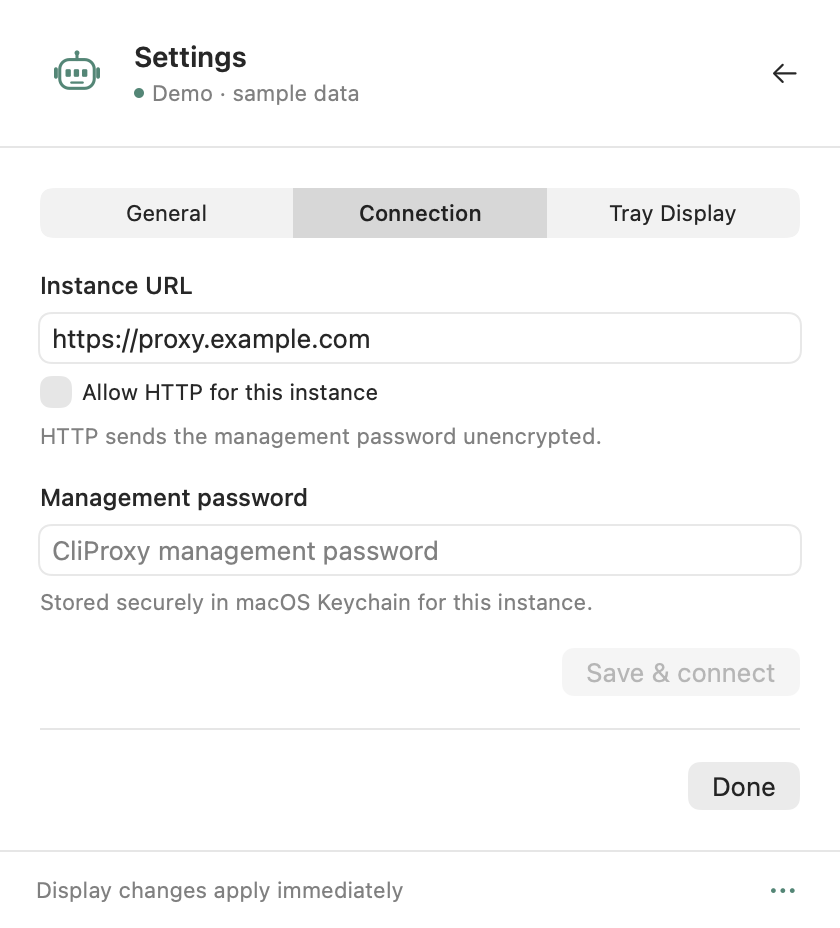
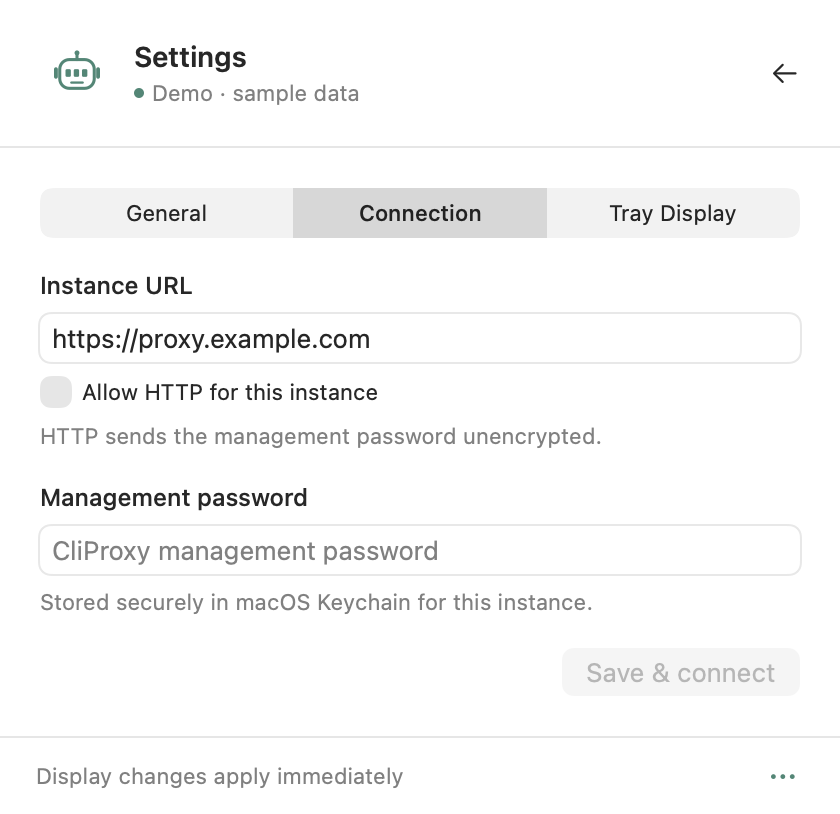
Remove Settings Done button and refresh README screenshot gallery

diff --git a/Sources/CliProxyQuota/Views.swift b/Sources/CliProxyQuota/Views.swift
@@ -239,8 +239,6 @@ struct SettingsView: View {
             case "General": generalSettings
             default: displaySettings
             }
-            Divider()
-            HStack { Spacer(); Button("Done") { key = ""; store.showSettings = false }.buttonStyle(.borderedProminent) }
         }
         .onAppear {
             endpoint = store.endpoint

diff --git a/README.md b/README.md
@@ -30,6 +30,8 @@ A small, native macOS app for [CLIProxyAPI](https://github.com/router-for-me/CLI
 - **Provider icons**: artwork for 17 provider identities in both quota views and the source menu, including light/dark variants where supplied. Unknown custom providers retain a letter fallback. Bundled locally for offline use.
 - **Three-dot menu**: Refresh, Open management UI, API version, and Quit are grouped in the bottom-right menu.
 
+## Screenshots
+
 <table>
 <tr>
 <td align="center"><strong>Account detail</strong></td>
@@ -73,9 +75,9 @@ Local builds are **ad-hoc signed**, not Developer ID signed or notarized. Downlo
 1. Click the Quota Bot icon in the menu bar, then the settings icon.
 2. Enter your CLIProxyAPI instance's base URL, such as `http://localhost:8317` or `https://proxy.example.com`.
 3. Enter the **management password/key**, not a proxy inference API key or a provider OAuth token.
-4. Choose a refresh interval and click **Save & connect**.
+4. Click **Save & connect** in **Connection**. Choose a refresh interval under **General**.
 5. Under **Tray Display**, choose **Remaining / Used**, **5-hour / Weekly / Both**, and one or more **Source** checkboxes. Changes apply immediately.
-6. Click **Done** to return to **All accounts** or **Per account**. Both use the selected percentage mode.
+6. Use the back arrow to return to **All accounts** or **Per account**. Both use the selected percentage mode.
 
 Settings has three tabs: **General**, **Connection**, and **Tray Display**. Connection changes use **Save & connect**; a blank management-password field keeps the saved Keychain password for that same instance. Refresh interval, launch-at-login, and **Light / Dark / System (Default)** appearance are under General. Appearance changes apply immediately and are remembered.
 
@@ -83,9 +85,20 @@ The management API must be enabled. Connections from another machine require rem
 
 HTTPS is the default for remote instances. To use a trusted HTTP instance, explicitly enable **Allow HTTP for this instance**. HTTP carries the management password without encryption; the opt-in applies only to that saved URL. Redirects are refused so credentials cannot silently move to another endpoint.
 
-<img src="docs/screenshots/settings.png" width="390" alt="Tray Display settings for percentages, quota windows, and source selection" />
-<img src="docs/screenshots/settings-connection.png" width="390" alt="Connection settings for instance URL and management password" />
-<img src="docs/screenshots/settings-general.png" width="390" alt="General settings for refresh interval and launch at login" />
+### Settings screenshots
+
+<table>
+<tr><td align="center"><strong>General</strong></td><td align="center"><strong>Connection</strong></td></tr>
+<tr>
+<td><img src="docs/screenshots/settings-general.png" width="360" alt="General settings with Light, Dark, and System appearance, refresh interval, and launch at login" /></td>
+<td><img src="docs/screenshots/settings-connection.png" width="360" alt="Connection settings with instance URL, management password, and Save and connect" /></td>
+</tr>
+<tr><td align="center"><strong>Tray Display</strong></td><td align="center"><strong>General in dark mode</strong></td></tr>
+<tr>
+<td><img src="docs/screenshots/settings.png" width="360" alt="Tray Display settings for remaining or used percentages, quota windows, and source selection" /></td>
+<td><img src="docs/screenshots/settings-general-dark.png" width="360" alt="General settings using dark appearance" /></td>
+</tr>
+</table>
 
 ### Used mode
 
